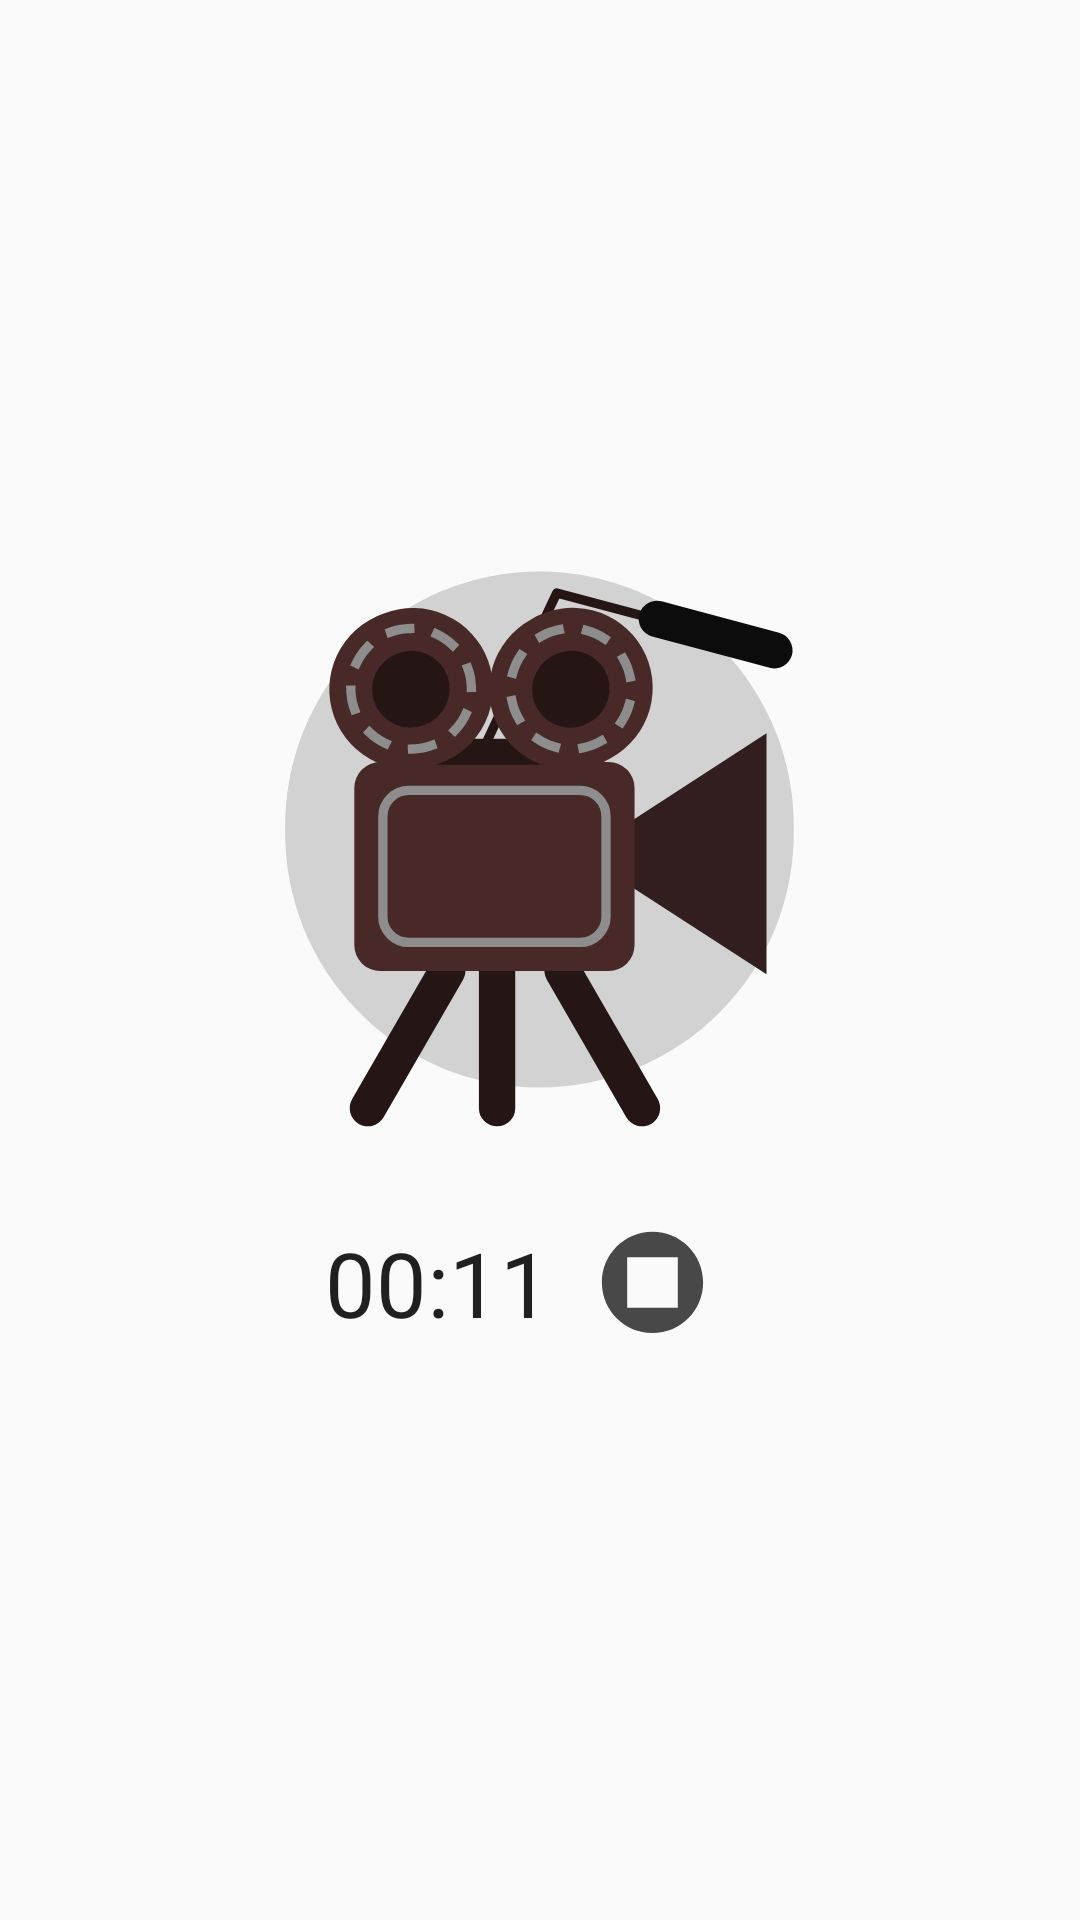
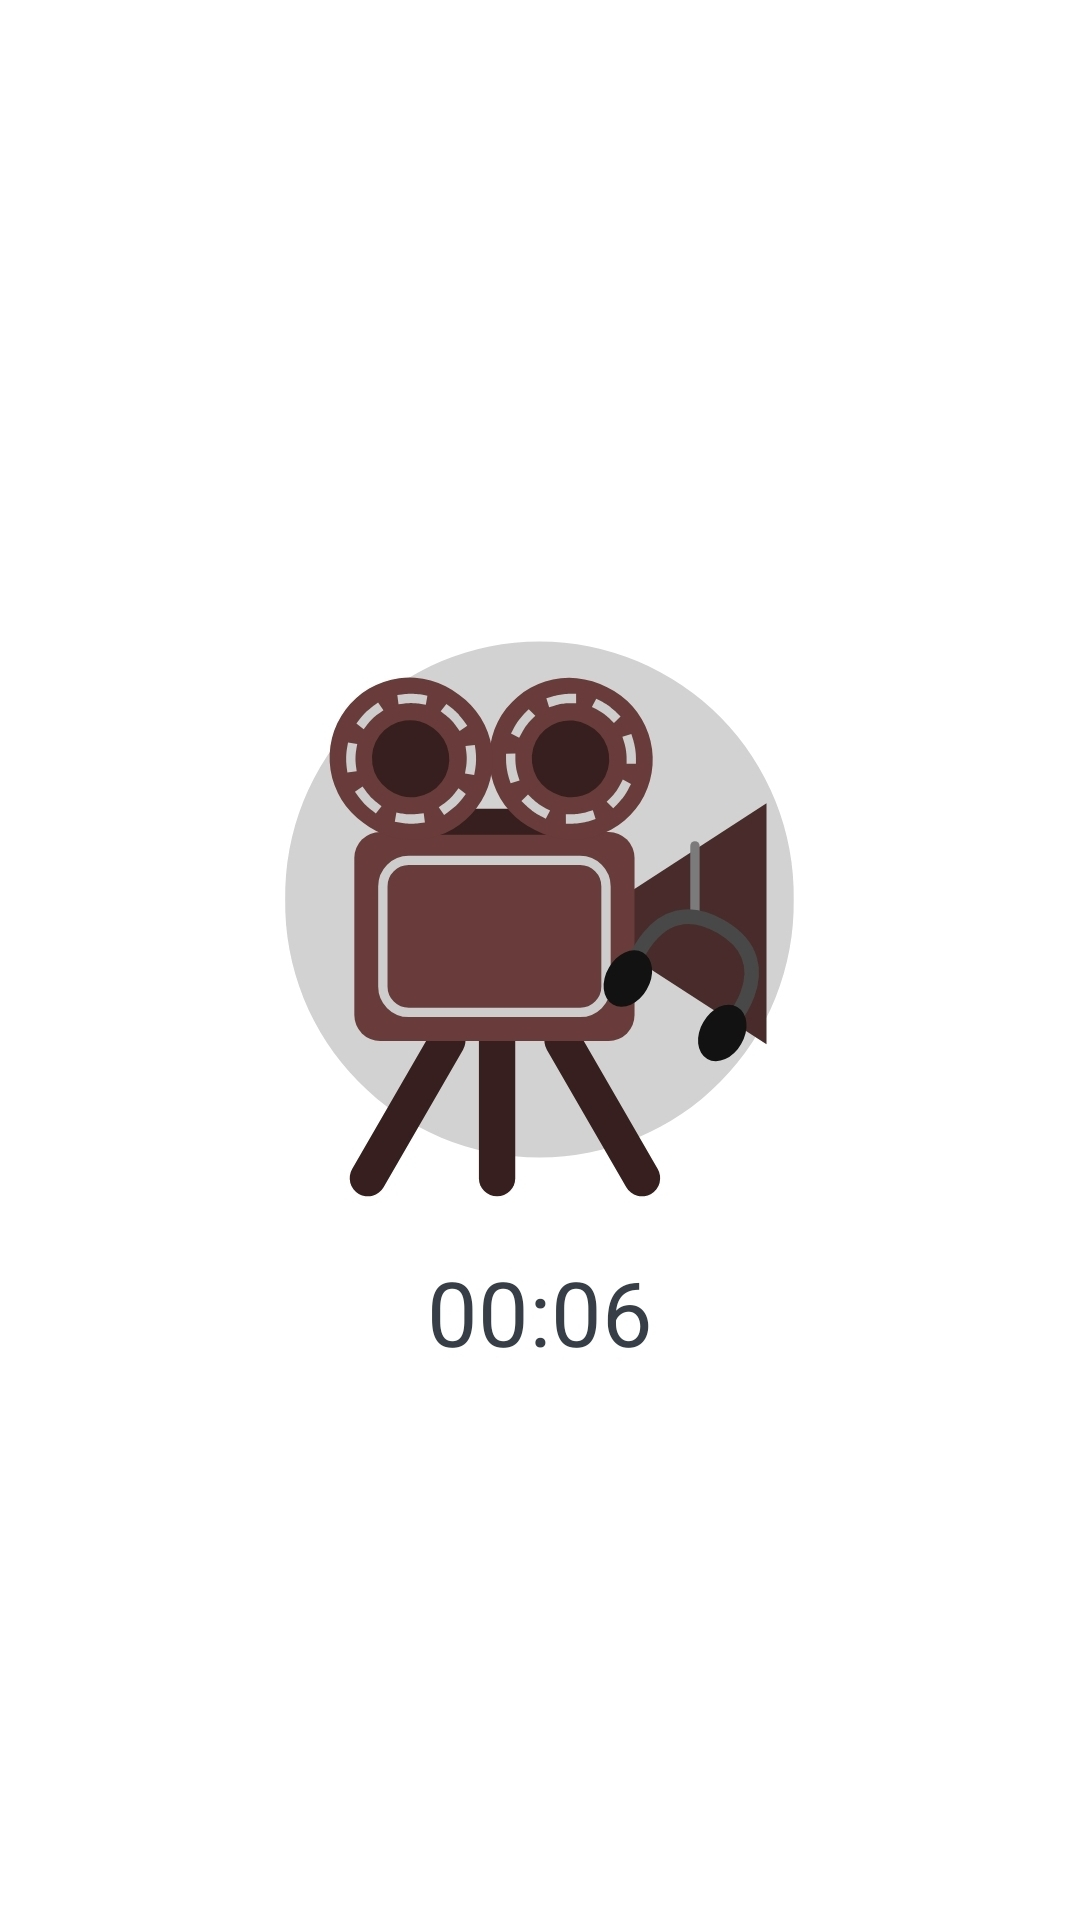
New release 3.8.8

Changed region(s): [[0.2444, 0.2812, 0.7333, 0.7188]]

diff --git a/README.md b/README.md
@@ -1,7 +1,7 @@
 <img src="icons_vector/app_icon.svg" alt="CaptureCap Icon" width="200"/>
 
 # CaptureCap
-***Capture Android Screen and/or Audio.***
+***Capture and Stream Android Screen and/or Audio.***
 
 [<img src="https://f-droid.org/badge/get-it-on.png"
     alt="Get it on F-Droid"